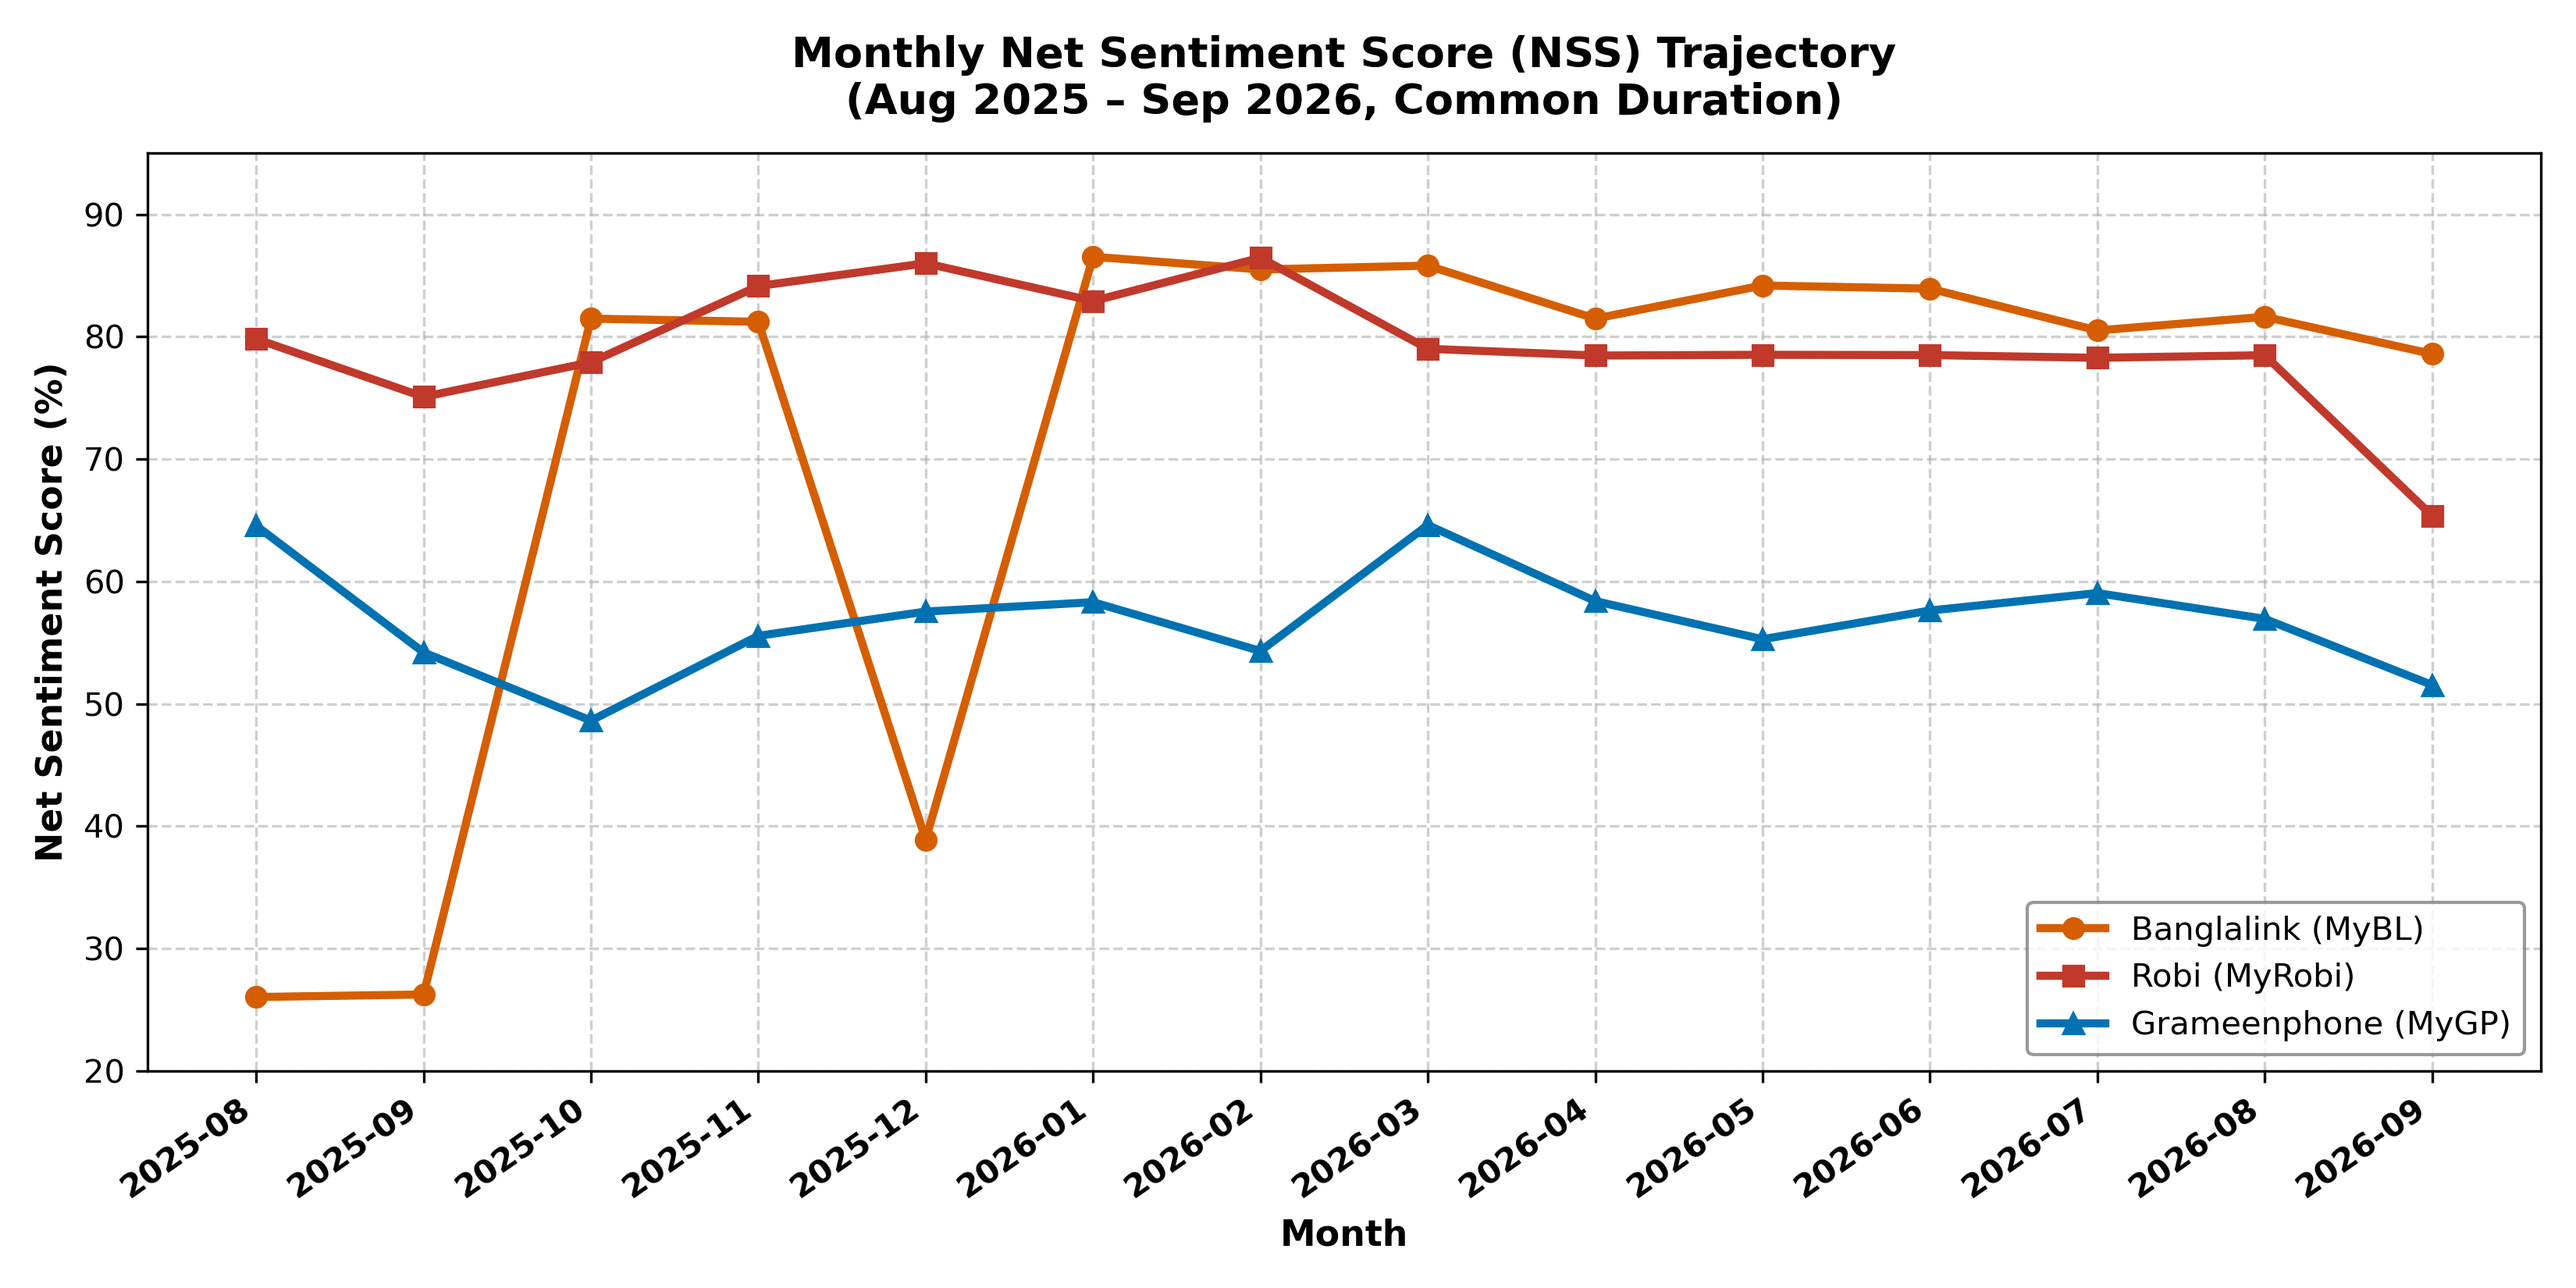
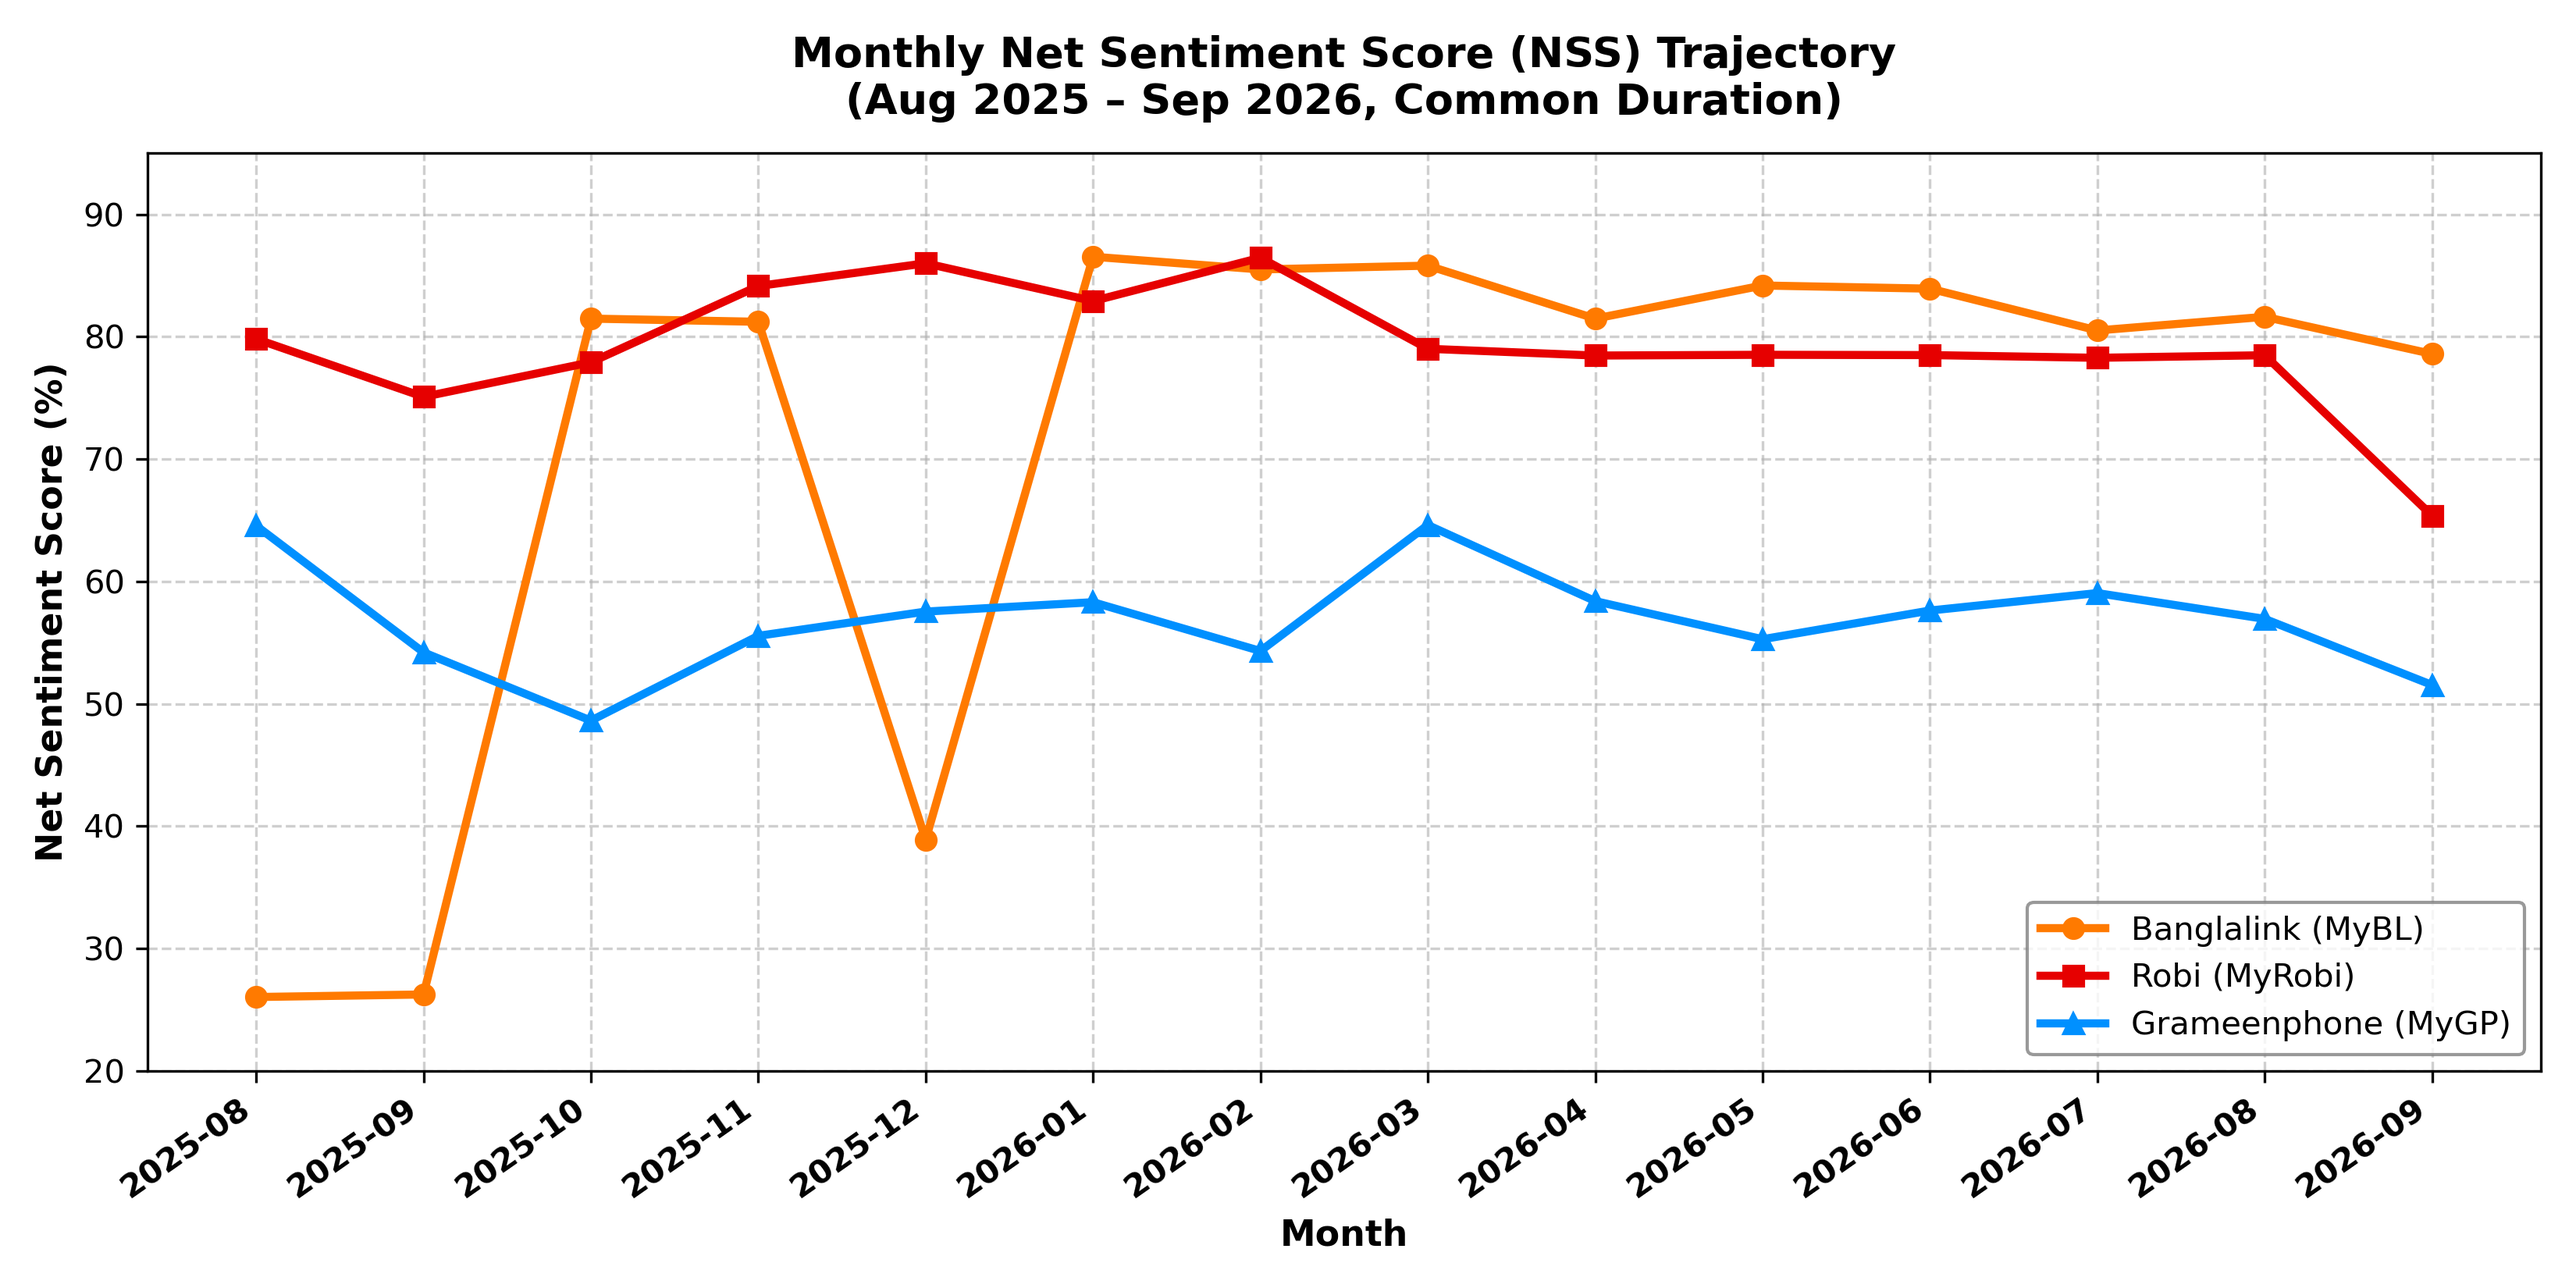
style: apply brand hex colors for Grameenphone (#0090ff), Robi (#e60000), Banglalink (#ff7a00)

diff --git a/scraped_data_2020/generate_all_visualizations.py b/scraped_data_2020/generate_all_visualizations.py
@@ -47,17 +47,19 @@ plt.rcParams.update({
 
 LABELS = ["Negative", "Neutral", "Positive"]
 COLOR_PALETTE = {
-    "Positive": "#2ECC71",  # Green
-    "Neutral": "#F39C12",   # Orange
-    "Negative": "#E74C3C",  # Red
-    "GP": "#0072B2",        # GP Blue
-    "BL": "#D55E00",        # BL Orange
-    "Robi": "#C0392B",      # Robi Crimson
-    "Hero": "#2E86C1",      # Ensemble Royal Blue
-    "LinearSVC": "#8E44AD", # Purple
-    "LogReg": "#16A085",    # Teal
-    "BiLSTM": "#E67E22",    # Deep Orange
-    "Star": "#7F8C8D",      # Gray
+    "Positive": "#2ECC71",       # Green
+    "Neutral": "#F39C12",        # Orange
+    "Negative": "#E74C3C",       # Red
+    "Grameenphone": "#0090ff",   # GP Electric Blue
+    "GP": "#0090ff",
+    "Robi": "#e60000",           # Robi Vibrant Red
+    "Banglalink": "#ff7a00",     # BL Vibrant Orange
+    "BL": "#ff7a00",
+    "Hero": "#2E86C1",           # Ensemble Royal Blue
+    "LinearSVC": "#8E44AD",      # Purple
+    "LogReg": "#16A085",         # Teal
+    "BiLSTM": "#E67E22",         # Deep Orange
+    "Star": "#7F8C8D",           # Gray
 }
 
 
@@ -186,29 +188,34 @@ def generate_gold_set_visuals():
     print(f"  ✓ Saved: {out3.name}")
 
     # 4. Operator Accuracy Breakdown Bar Chart
-    operators = ["Grameenphone", "Robi", "Banglalink"]
-    bar_models = [
-        ("Soft-Voting Ensemble", "pred_ensemble", "#2E86C1"),
-        ("LinearSVC", "pred_linearsvc", "#8E44AD"),
-        ("Logistic Regression", "pred_logistic", "#16A085"),
-        ("BiLSTM+Attention", "pred_bilstm", "#E67E22"),
+    models_to_plot = [
+        ("Soft-Voting Ensemble\n(Hero)", "pred_ensemble"),
+        ("Calibrated\nLinearSVC", "pred_linearsvc"),
+        ("Balanced\nLogReg", "pred_logistic"),
+        ("Deep Learning\nBiLSTM+Attention", "pred_bilstm"),
+    ]
+    ops_to_plot = [
+        ("Grameenphone", COLOR_PALETTE["Grameenphone"]),
+        ("Robi", COLOR_PALETTE["Robi"]),
+        ("Banglalink", COLOR_PALETTE["Banglalink"]),
     ]
 
-    fig, ax = plt.subplots(figsize=(9, 5.5), dpi=300)
-    x = np.arange(len(operators))
-    w = 0.18
+    fig, ax = plt.subplots(figsize=(10, 5.5), dpi=300)
+    x = np.arange(len(models_to_plot))
+    w = 0.24
 
-    for i, (m_name, col, color) in enumerate(bar_models):
-        vals = [accuracy_score(df[df["operator"] == op]["gold_sentiment"], df[df["operator"] == op][col]) * 100 for op in operators]
-        rects = ax.bar(x + (i - 1.5) * w, vals, w, label=m_name, color=color, edgecolor="black", alpha=0.9)
+    for i, (op_name, op_color) in enumerate(ops_to_plot):
+        sub_df = df[df["operator"] == op_name]
+        vals = [accuracy_score(sub_df["gold_sentiment"], sub_df[col]) * 100 for _, col in models_to_plot]
+        rects = ax.bar(x + (i - 1) * w, vals, w, label=op_name, color=op_color, edgecolor="black", alpha=0.9)
         for r in rects:
             h = r.get_height()
             ax.annotate(f"{h:.1f}%", xy=(r.get_x() + r.get_width()/2, h), xytext=(0, 2),
-                        textcoords="offset points", ha="center", va="bottom", fontsize=7.5, fontweight="bold")
+                        textcoords="offset points", ha="center", va="bottom", fontsize=8, fontweight="bold")
 
-    ax.set_title("Gold Standard Accuracy by Operator (N=200 per brand)", fontsize=13, fontweight="bold", pad=12)
+    ax.set_title("Gold Standard Accuracy by Model & Operator (N=200 per brand)", fontsize=13, fontweight="bold", pad=12)
     ax.set_xticks(x)
-    ax.set_xticklabels(operators, fontweight="bold", fontsize=11)
+    ax.set_xticklabels([m[0] for m in models_to_plot], fontweight="bold", fontsize=10)
     ax.set_ylabel("Accuracy (%)", fontweight="bold")
     ax.set_ylim(60, 92)
     ax.grid(axis="y", linestyle="--", alpha=0.5)
@@ -244,6 +251,15 @@ def generate_production_visuals():
     ax.set_title("Customer Sentiment Distribution by Operator (Shared 402-Day Window)", fontsize=13, fontweight="bold", pad=12)
     ax.set_xticks(x)
     ax.set_xticklabels(dist.index, fontweight="bold", fontsize=11)
+    for tick_label in ax.get_xticklabels():
+        txt = tick_label.get_text()
+        if "Grameenphone" in txt:
+            tick_label.set_color(COLOR_PALETTE["Grameenphone"])
+        elif "Robi" in txt:
+            tick_label.set_color(COLOR_PALETTE["Robi"])
+        elif "Banglalink" in txt:
+            tick_label.set_color(COLOR_PALETTE["Banglalink"])
+
     ax.set_ylabel("Share of Reviews (%)", fontweight="bold")
     ax.set_ylim(0, 100)
     ax.grid(axis="y", linestyle="--", alpha=0.5)
@@ -275,7 +291,7 @@ def generate_production_visuals():
         "Industry Baseline\n(83.4k Reviews)": 84.1 - 9.9,
         "Grameenphone\n(MyGP)": 75.0 - 18.4,
     }
-    colors = ["#2ECC71", "#27AE60", "#2980B9", "#E67E22"]
+    colors = [COLOR_PALETTE["Banglalink"], COLOR_PALETTE["Robi"], "#5D6D7E", COLOR_PALETTE["Grameenphone"]]
 
     fig, ax = plt.subplots(figsize=(8, 5), dpi=300)
     bars = ax.bar(nss_data.keys(), nss_data.values(), color=colors, edgecolor="black", width=0.55, alpha=0.9)
@@ -308,9 +324,9 @@ def generate_production_visuals():
     fig, ax = plt.subplots(figsize=(11, 5.5), dpi=300)
     
     months = trend.index.tolist()
-    ax.plot(months, trend["Banglalink"], marker="o", linewidth=2.5, label="Banglalink (MyBL)", color="#D55E00")
-    ax.plot(months, trend["Robi"], marker="s", linewidth=2.5, label="Robi (MyRobi)", color="#C0392B")
-    ax.plot(months, trend["Grameenphone"], marker="^", linewidth=2.5, label="Grameenphone (MyGP)", color="#0072B2")
+    ax.plot(months, trend["Banglalink"], marker="o", linewidth=2.5, label="Banglalink (MyBL)", color=COLOR_PALETTE["Banglalink"])
+    ax.plot(months, trend["Robi"], marker="s", linewidth=2.5, label="Robi (MyRobi)", color=COLOR_PALETTE["Robi"])
+    ax.plot(months, trend["Grameenphone"], marker="^", linewidth=2.5, label="Grameenphone (MyGP)", color=COLOR_PALETTE["Grameenphone"])
 
     ax.set_title("Monthly Net Sentiment Score (NSS) Trajectory\n(Aug 2025 – Sep 2026, Common Duration)", fontsize=13, fontweight="bold", pad=12)
     ax.set_xlabel("Month", fontweight="bold")

diff --git a/scraped_data_2020/pipeline/06_generate_visualizations.py b/scraped_data_2020/pipeline/06_generate_visualizations.py
@@ -47,17 +47,19 @@ plt.rcParams.update({
 
 LABELS = ["Negative", "Neutral", "Positive"]
 COLOR_PALETTE = {
-    "Positive": "#2ECC71",  # Green
-    "Neutral": "#F39C12",   # Orange
-    "Negative": "#E74C3C",  # Red
-    "GP": "#0072B2",        # GP Blue
-    "BL": "#D55E00",        # BL Orange
-    "Robi": "#C0392B",      # Robi Crimson
-    "Hero": "#2E86C1",      # Ensemble Royal Blue
-    "LinearSVC": "#8E44AD", # Purple
-    "LogReg": "#16A085",    # Teal
-    "BiLSTM": "#E67E22",    # Deep Orange
-    "Star": "#7F8C8D",      # Gray
+    "Positive": "#2ECC71",       # Green
+    "Neutral": "#F39C12",        # Orange
+    "Negative": "#E74C3C",       # Red
+    "Grameenphone": "#0090ff",   # GP Electric Blue
+    "GP": "#0090ff",
+    "Robi": "#e60000",           # Robi Vibrant Red
+    "Banglalink": "#ff7a00",     # BL Vibrant Orange
+    "BL": "#ff7a00",
+    "Hero": "#2E86C1",           # Ensemble Royal Blue
+    "LinearSVC": "#8E44AD",      # Purple
+    "LogReg": "#16A085",         # Teal
+    "BiLSTM": "#E67E22",         # Deep Orange
+    "Star": "#7F8C8D",           # Gray
 }
 
 
@@ -186,29 +188,34 @@ def generate_gold_set_visuals():
     print(f"  ✓ Saved: {out3.name}")
 
     # 4. Operator Accuracy Breakdown Bar Chart
-    operators = ["Grameenphone", "Robi", "Banglalink"]
-    bar_models = [
-        ("Soft-Voting Ensemble", "pred_ensemble", "#2E86C1"),
-        ("LinearSVC", "pred_linearsvc", "#8E44AD"),
-        ("Logistic Regression", "pred_logistic", "#16A085"),
-        ("BiLSTM+Attention", "pred_bilstm", "#E67E22"),
+    models_to_plot = [
+        ("Soft-Voting Ensemble\n(Hero)", "pred_ensemble"),
+        ("Calibrated\nLinearSVC", "pred_linearsvc"),
+        ("Balanced\nLogReg", "pred_logistic"),
+        ("Deep Learning\nBiLSTM+Attention", "pred_bilstm"),
+    ]
+    ops_to_plot = [
+        ("Grameenphone", COLOR_PALETTE["Grameenphone"]),
+        ("Robi", COLOR_PALETTE["Robi"]),
+        ("Banglalink", COLOR_PALETTE["Banglalink"]),
     ]
 
-    fig, ax = plt.subplots(figsize=(9, 5.5), dpi=300)
-    x = np.arange(len(operators))
-    w = 0.18
+    fig, ax = plt.subplots(figsize=(10, 5.5), dpi=300)
+    x = np.arange(len(models_to_plot))
+    w = 0.24
 
-    for i, (m_name, col, color) in enumerate(bar_models):
-        vals = [accuracy_score(df[df["operator"] == op]["gold_sentiment"], df[df["operator"] == op][col]) * 100 for op in operators]
-        rects = ax.bar(x + (i - 1.5) * w, vals, w, label=m_name, color=color, edgecolor="black", alpha=0.9)
+    for i, (op_name, op_color) in enumerate(ops_to_plot):
+        sub_df = df[df["operator"] == op_name]
+        vals = [accuracy_score(sub_df["gold_sentiment"], sub_df[col]) * 100 for _, col in models_to_plot]
+        rects = ax.bar(x + (i - 1) * w, vals, w, label=op_name, color=op_color, edgecolor="black", alpha=0.9)
         for r in rects:
             h = r.get_height()
             ax.annotate(f"{h:.1f}%", xy=(r.get_x() + r.get_width()/2, h), xytext=(0, 2),
-                        textcoords="offset points", ha="center", va="bottom", fontsize=7.5, fontweight="bold")
+                        textcoords="offset points", ha="center", va="bottom", fontsize=8, fontweight="bold")
 
-    ax.set_title("Gold Standard Accuracy by Operator (N=200 per brand)", fontsize=13, fontweight="bold", pad=12)
+    ax.set_title("Gold Standard Accuracy by Model & Operator (N=200 per brand)", fontsize=13, fontweight="bold", pad=12)
     ax.set_xticks(x)
-    ax.set_xticklabels(operators, fontweight="bold", fontsize=11)
+    ax.set_xticklabels([m[0] for m in models_to_plot], fontweight="bold", fontsize=10)
     ax.set_ylabel("Accuracy (%)", fontweight="bold")
     ax.set_ylim(60, 92)
     ax.grid(axis="y", linestyle="--", alpha=0.5)
@@ -244,6 +251,15 @@ def generate_production_visuals():
     ax.set_title("Customer Sentiment Distribution by Operator (Shared 402-Day Window)", fontsize=13, fontweight="bold", pad=12)
     ax.set_xticks(x)
     ax.set_xticklabels(dist.index, fontweight="bold", fontsize=11)
+    for tick_label in ax.get_xticklabels():
+        txt = tick_label.get_text()
+        if "Grameenphone" in txt:
+            tick_label.set_color(COLOR_PALETTE["Grameenphone"])
+        elif "Robi" in txt:
+            tick_label.set_color(COLOR_PALETTE["Robi"])
+        elif "Banglalink" in txt:
+            tick_label.set_color(COLOR_PALETTE["Banglalink"])
+
     ax.set_ylabel("Share of Reviews (%)", fontweight="bold")
     ax.set_ylim(0, 100)
     ax.grid(axis="y", linestyle="--", alpha=0.5)
@@ -275,7 +291,7 @@ def generate_production_visuals():
         "Industry Baseline\n(83.4k Reviews)": 84.1 - 9.9,
         "Grameenphone\n(MyGP)": 75.0 - 18.4,
     }
-    colors = ["#2ECC71", "#27AE60", "#2980B9", "#E67E22"]
+    colors = [COLOR_PALETTE["Banglalink"], COLOR_PALETTE["Robi"], "#5D6D7E", COLOR_PALETTE["Grameenphone"]]
 
     fig, ax = plt.subplots(figsize=(8, 5), dpi=300)
     bars = ax.bar(nss_data.keys(), nss_data.values(), color=colors, edgecolor="black", width=0.55, alpha=0.9)
@@ -308,9 +324,9 @@ def generate_production_visuals():
     fig, ax = plt.subplots(figsize=(11, 5.5), dpi=300)
     
     months = trend.index.tolist()
-    ax.plot(months, trend["Banglalink"], marker="o", linewidth=2.5, label="Banglalink (MyBL)", color="#D55E00")
-    ax.plot(months, trend["Robi"], marker="s", linewidth=2.5, label="Robi (MyRobi)", color="#C0392B")
-    ax.plot(months, trend["Grameenphone"], marker="^", linewidth=2.5, label="Grameenphone (MyGP)", color="#0072B2")
+    ax.plot(months, trend["Banglalink"], marker="o", linewidth=2.5, label="Banglalink (MyBL)", color=COLOR_PALETTE["Banglalink"])
+    ax.plot(months, trend["Robi"], marker="s", linewidth=2.5, label="Robi (MyRobi)", color=COLOR_PALETTE["Robi"])
+    ax.plot(months, trend["Grameenphone"], marker="^", linewidth=2.5, label="Grameenphone (MyGP)", color=COLOR_PALETTE["Grameenphone"])
 
     ax.set_title("Monthly Net Sentiment Score (NSS) Trajectory\n(Aug 2025 – Sep 2026, Common Duration)", fontsize=13, fontweight="bold", pad=12)
     ax.set_xlabel("Month", fontweight="bold")
